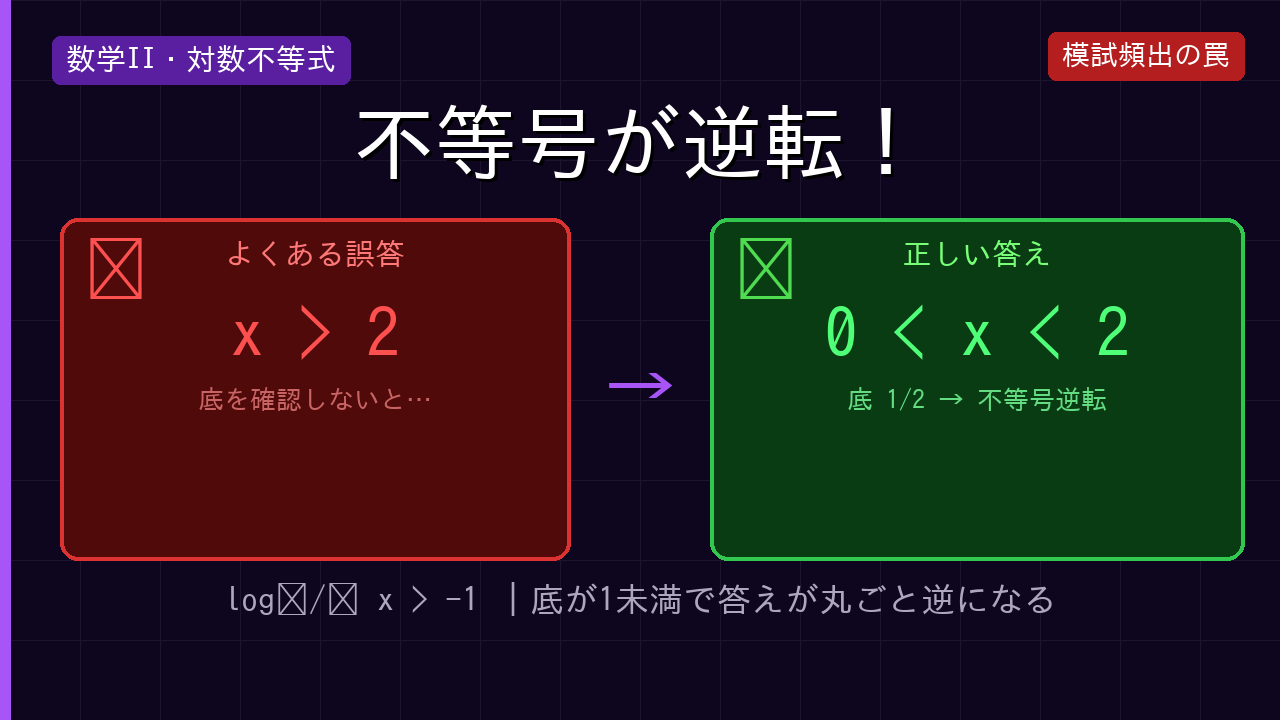
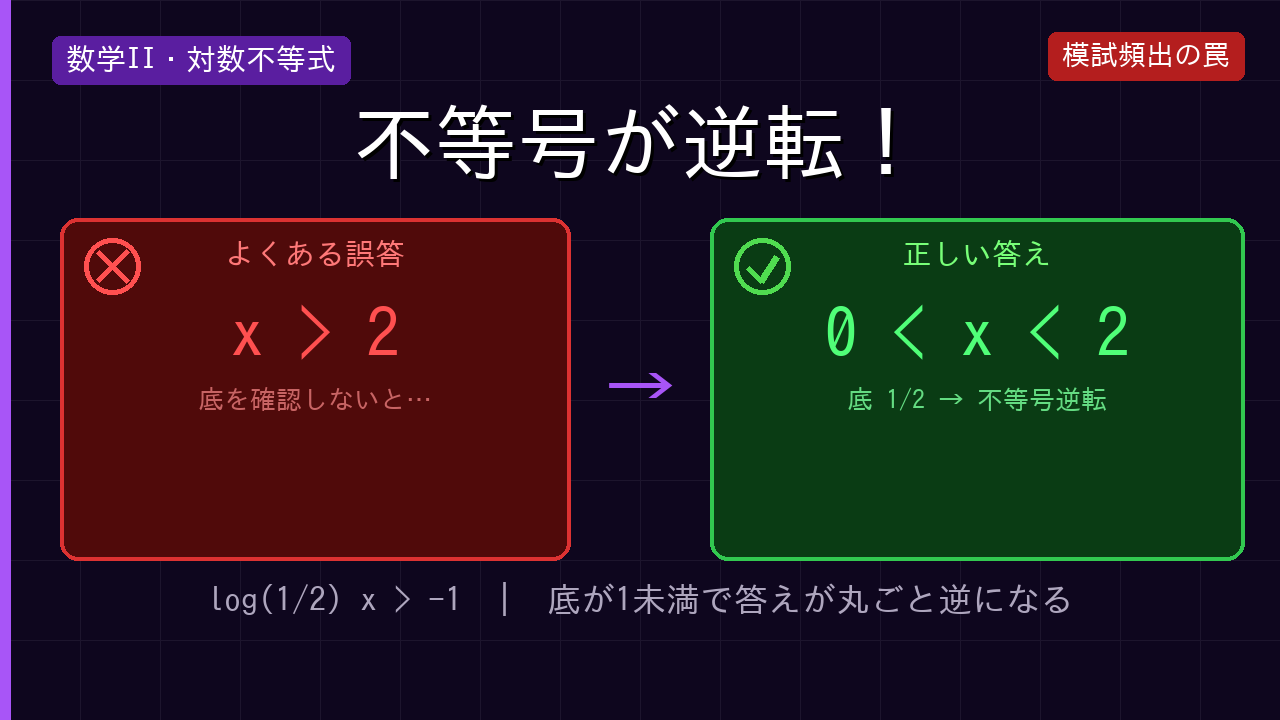
fix: math2-10 サムネイルの記号表示を修正
- ❌/✅ 絵文字（IPAGothic非対応）→ PIL で円+×/チェック描画に変更
- log₁/₂（下付き文字、非対応）→ log(1/2) に変更

https://claude.ai/code/session_01NDAV6KmttzK1jEoWGKDVBj

Changed region(s): [[0.1562, 0.7944, 0.8438, 0.8556], [0.5625, 0.3361, 0.625, 0.4278], [0.0625, 0.3361, 0.125, 0.4278]]

diff --git a/tools/make_thumbnails.py b/tools/make_thumbnails.py
@@ -527,14 +527,30 @@ def make_thumbnail_vs(stem, config):
     draw.text(((W - tc_w) / 2 + 3, 103), tc, font=tc_fnt, fill=(0, 0, 0, 100))
     draw.text(((W - tc_w) / 2,     100), tc, font=tc_fnt, fill=(255, 255, 255))
 
+    def draw_cross_icon(cx, cy, r, clr):
+        """❌ の代替：円 + ×線を PIL で描画"""
+        draw.ellipse([cx - r, cy - r, cx + r, cy + r], outline=clr, width=5)
+        m = int(r * 0.55)
+        draw.line([cx - m, cy - m, cx + m, cy + m], fill=clr, width=6)
+        draw.line([cx + m, cy - m, cx - m, cy + m], fill=clr, width=6)
+
+    def draw_check_icon(cx, cy, r, clr):
+        """✅ の代替：円 + チェックマークを PIL で描画"""
+        draw.ellipse([cx - r, cy - r, cx + r, cy + r], outline=clr, width=5)
+        # チェック: 左下→中央底→右上
+        m = int(r * 0.55)
+        pts = [cx - m, cy + int(m * 0.1),
+               cx - int(m * 0.1), cy + m,
+               cx + m, cy - int(m * 0.7)]
+        draw.line(pts, fill=clr, width=6)
+
     # ── 左ボックス（地獄）
     BOX_Y0, BOX_Y1 = 218, 560
     LX0, LX1 = 60, 570
     draw_rect_rounded(draw, [LX0, BOX_Y0, LX1, BOX_Y1], radius=18,
                       fill=(80, 10, 10), outline=(220, 50, 50), width=4)
-    # ❌ アイコン
-    x_fnt = font(64)
-    draw.text((LX0 + 24, BOX_Y0 + 18), '❌', font=x_fnt, fill=(255, 80, 80))
+    # × アイコン（PIL 描画）
+    draw_cross_icon(LX0 + 52, BOX_Y0 + 48, 28, (255, 80, 80))
     # 小ラベル
     hl_fnt = font(30)
     hl_w   = draw.textlength(config['hell_label'], font=hl_fnt)
@@ -562,8 +578,8 @@ def make_thumbnail_vs(stem, config):
     RX0, RX1 = 710, W - 36
     draw_rect_rounded(draw, [RX0, BOX_Y0, RX1, BOX_Y1], radius=18,
                       fill=(10, 60, 20), outline=(50, 200, 80), width=4)
-    # ✅ アイコン
-    draw.text((RX0 + 24, BOX_Y0 + 18), '✅', font=x_fnt, fill=(80, 220, 80))
+    # チェック アイコン（PIL 描画）
+    draw_check_icon(RX0 + 52, BOX_Y0 + 48, 28, (80, 220, 80))
     # 小ラベル
     vl_fnt = font(30)
     vl_w   = draw.textlength(config['heaven_label'], font=vl_fnt)
@@ -611,7 +627,7 @@ VS_THUMBNAILS = {
         heaven_label = '正しい答え',
         heaven_value = '0 < x < 2',
         heaven_note  = '底 1/2 → 不等号逆転',
-        bottom_copy  = 'log₁/₂ x > −1 ｜底が1未満で答えが丸ごと逆になる',
+        bottom_copy  = 'log(1/2) x > -1  |  底が1未満で答えが丸ごと逆になる',
     ),
 }
 
